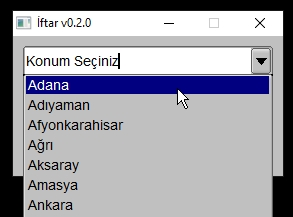
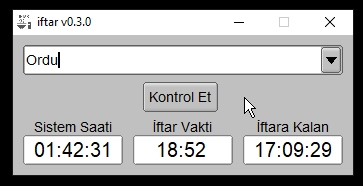
v0.3.0

diff --git a/README.md b/README.md
@@ -4,28 +4,24 @@
 
 ## Özellikler
 
-* Sistem saatini ve iftar vaktini gösterir
-* Vakit bilgileri her gece saat 00:00'dan sonra yenilenir
+* Sistem saatini, iftar vaktini ve iftara kalan süreyi gösterir.
+* Vakit bilgileri her gece saat 00:00'dan sonra yenilenir.
 * Rust diliyle yazılmıştır ❤ 🦀
 * GUI kütüphanesi: [fltk-rs](https://github.com/fltk-rs/fltk-rs)
-* İftar saat bilgilerini Diyanet İşleri Bakanlığı'nın [sitesinden](https://namazvakitleri.diyanet.gov.tr/tr-TR) alır (siteden kaynaklı olarak bazen donup kalabilir)
+* İftar saat bilgilerini Diyanet İşleri Bakanlığı'nın [sitesinden](https://namazvakitleri.diyanet.gov.tr/tr-TR) alır. (siteden kaynaklı olarak bazen donup kalabilir)
 
 ## Ekran Görüntüleri
 ![ss1](https://github.com/omerakgoz34/iftar/raw/main/screenshots/ss1.jpg)  
-![ss2](https://github.com/omerakgoz34/iftar/raw/main/screenshots/ss2.jpg)  
 
 ## Eklenmesi Planlanan Özellikler
 * İlçeler
-* Daha iyi bir kalan süre göstergesi
 * Alarm sistemi. Ayarlanan süre aralıklarıyla bildirim gösterecek.
-* Android uygulama desteği
-* Exe ve pencere için simge?
-* ~~Bir hata oluştuğunda kullanıcıya bildirilmesi~~
+* Android uygulama desteği  
 
 ## İndirme Linkleri:
-[Windows amd64 v0.2.1(GUI)](https://github.com/omerakgoz34/iftar/releases/download/v0.2.1/iftar_v0.2.1_windows_amd64.zip) ([Scoop Bucket](https://github.com/omerakgoz34/scoop-bucket))  
-[Linux amd64 v0.2.1 (GUI)](https://github.com/omerakgoz34/iftar/releases/download/v0.2.1/iftar_v0.2.1_linux_amd64.zip)  
-[macOS amd64 v0.2.1 (GUI)](https://github.com/omerakgoz34/iftar/releases/download/v0.2.1/iftar_v0.2.1_macos_amd64.zip)  
+[Windows amd64 v0.3.0(GUI)](https://github.com/omerakgoz34/iftar/releases/download/v0.3.0/iftar_v0.3.0_windows_amd64.zip) ([Scoop Bucket](https://github.com/omerakgoz34/scoop-bucket))  
+[Linux amd64 v0.3.0 (GUI)](https://github.com/omerakgoz34/iftar/releases/download/v0.3.0/iftar_v0.3.0_linux_amd64.zip)  
+[macOS amd64 v0.3.0 (GUI)](https://github.com/omerakgoz34/iftar/releases/download/v0.3.0/iftar_v0.3.0_macos_amd64.zip)  
   
 [Windows amd64 v0.1.2 (CLI)](https://github.com/omerakgoz34/iftar/releases/download/v0.1.2/iftar_v0.1.2_windows_amd64.zip) ([Scoop manifest](https://github.com/omerakgoz34/iftar/raw/f8e14390d2d17a9dcf76366d10ed4a8abfade9be/iftar.json))  
 [Linux amd64 v0.1.2 (CLI)](https://github.com/omerakgoz34/iftar/releases/download/v0.1.2/iftar_v0.1.2_linux_amd64.zip)  
